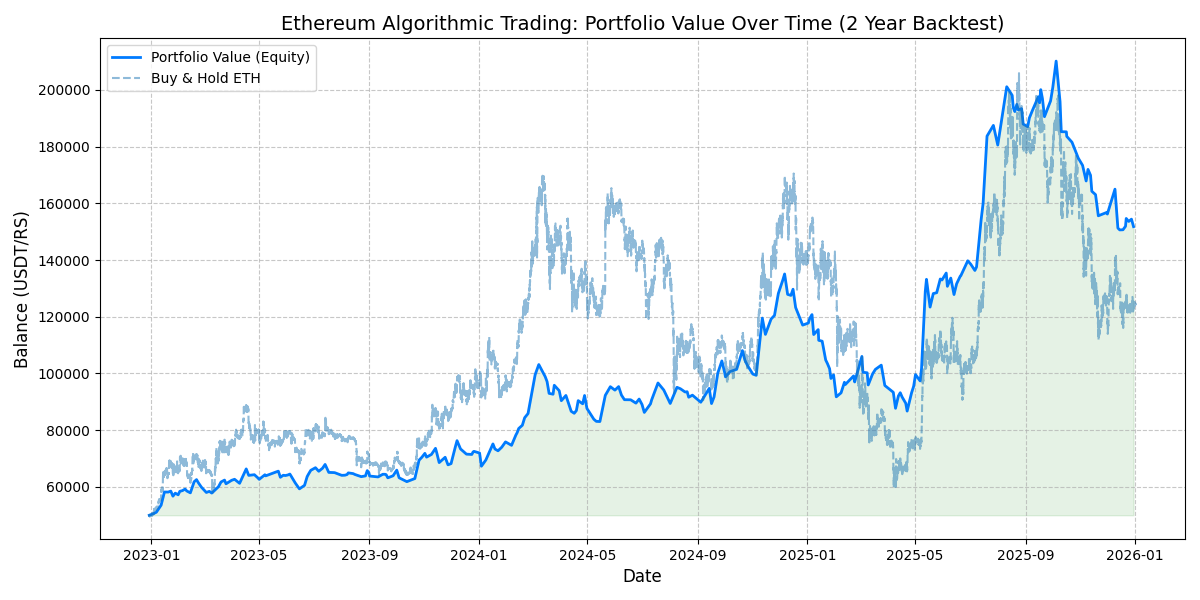
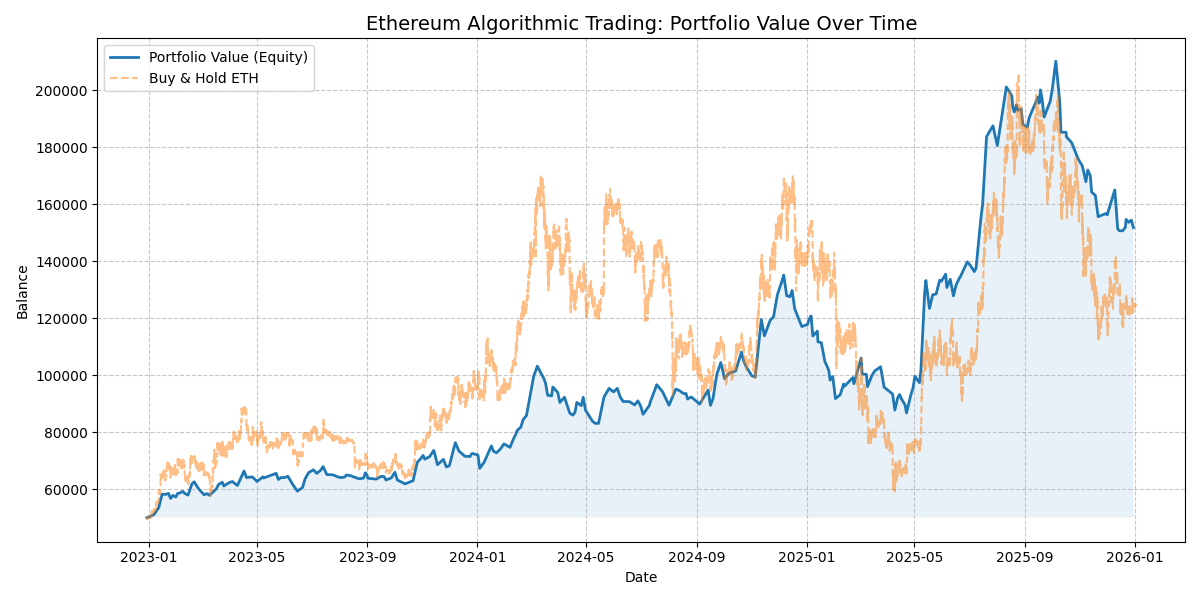
Added final cleaned code

diff --git a/final.py b/final.py
@@ -1,0 +1,279 @@
+import pandas as pd
+import numpy as np
+import os
+from engine_2 import EthereumTradingEngine
+import matplotlib.pyplot as plt
+
+# =========================
+# INDICATORS
+# =========================
+
+def calculate_ema(df, window):
+    return df['close'].ewm(span=window, adjust=False).mean()
+
+
+def calculate_rsi(df, window=14):
+    delta = df['close'].diff()
+    gain = delta.clip(lower=0).rolling(window).mean()
+    loss = (-delta.clip(upper=0)).rolling(window).mean()
+    rs = gain / loss
+    return 100 - (100 / (1 + rs))
+
+
+def calculate_atr(df, window=14):
+    tr = pd.concat([
+        df['high'] - df['low'],
+        (df['high'] - df['close'].shift()).abs(),
+        (df['low'] - df['close'].shift()).abs()
+    ], axis=1).max(axis=1)
+    return tr.rolling(window).mean()
+
+
+def calculate_macd(df, fast=12, slow=26, signal=9):
+    exp1 = df['close'].ewm(span=fast, adjust=False).mean()
+    exp2 = df['close'].ewm(span=slow, adjust=False).mean()
+    macd = exp1 - exp2
+    signal_line = macd.ewm(span=signal, adjust=False).mean()
+    return macd, signal_line
+
+
+def calculate_bollinger_bands(df, window=20, std_dev=2):
+    sma = df['close'].rolling(window).mean()
+    std = df['close'].rolling(window).std()
+    return sma + std_dev * std, sma, sma - std_dev * std
+
+
+def calculate_adx(df, window=14):
+    plus_dm = df['high'].diff().clip(lower=0)
+    minus_dm = (-df['low'].diff()).clip(lower=0)
+
+    tr = calculate_atr(df, window)
+
+    plus_di = 100 * (plus_dm.ewm(alpha=1/window).mean() / tr)
+    minus_di = 100 * (minus_dm.ewm(alpha=1/window).mean() / tr)
+
+    dx = (abs(plus_di - minus_di) / (plus_di + minus_di)) * 100
+    return dx.ewm(alpha=1/window).mean()
+
+# =========================
+# POSITION SIZING
+# =========================
+
+BASE_ALLOC = {
+    'trend_long': 1.00,
+    'trend_short': 0.70,
+    'side_long': 0.80,
+    'side_short': 0.50,
+}
+
+
+def get_position_size(capital, signal_type, atr, atr_mean):
+    base = BASE_ALLOC[signal_type]
+
+    if pd.notna(atr) and pd.notna(atr_mean) and atr_mean > 0:
+        scalar = np.clip(atr_mean / atr, 0.80, 1.00)
+    else:
+        scalar = 1.0
+
+    return capital * base * scalar
+
+# =========================
+# BACKTEST
+# =========================
+
+def run_backtest(csv_path, initial_funds=50000.0):
+
+    if os.path.exists('logs.csv'):
+        os.remove('logs.csv')
+
+    df = pd.read_csv(csv_path)
+    df['timestamp'] = pd.to_datetime(df['timestamp'])
+    df = df.sort_values('timestamp').reset_index(drop=True)
+
+    engine = EthereumTradingEngine(initial_balance=initial_funds, fee_rate=0.001)
+    
+    #df = df.head(17520).copy()
+    #df = df.tail(8855).copy()
+
+    # Indicators
+    df['ema_20'] = calculate_ema(df, 20)
+    df['ema_50'] = calculate_ema(df, 50)
+    df['ema_100'] = calculate_ema(df, 100)
+    df['macd'], df['macd_signal'] = calculate_macd(df)
+    df['adx'] = calculate_adx(df)
+    df['rsi'] = calculate_rsi(df)
+    df['bb_up'], df['bb_mid'], df['bb_low'] = calculate_bollinger_bands(df)
+    df['atr'] = calculate_atr(df)
+    df['atr_mean'] = df['atr'].rolling(20).mean()
+
+    portfolio_values = []
+
+    for i in range(len(df) - 1):
+        if i < 100:
+            portfolio_values.append(engine.balance)
+            continue
+
+        row = df.iloc[i]
+        next_row = df.iloc[i + 1]
+
+        if pd.isna(row['adx']):
+            portfolio_values.append(engine.balance)
+            continue
+
+        signal = 0
+        signal_type = None
+
+        # Trend
+        if row['adx'] > 30:
+            if row['macd'] > row['macd_signal'] and row['close'] > row['ema_20'] > row['ema_50'] > row['ema_100']:
+                signal, signal_type = 1, 'trend_long'
+            elif row['macd'] < row['macd_signal'] and row['close'] < row['ema_20'] < row['ema_50'] < row['ema_100']:
+                signal, signal_type = -1, 'trend_short'
+
+        # Range
+        elif row['adx'] < 25:
+            if row['rsi'] < 40 and row['close'] < row['bb_low']:
+                signal, signal_type = 1, 'side_long'
+            elif row['rsi'] > 65 and row['close'] > row['bb_up']:
+                signal, signal_type = -1, 'side_short'
+
+        # Hold logic
+        if engine.current_position is not None and signal == 0:
+            signal = 1 if engine.current_position['type'] == 'long' else -1
+
+        # Position sizing
+        if engine.current_position:
+            budget = engine.current_position['budget_allocated']
+        elif signal_type:
+            budget = get_position_size(engine.balance, signal_type, row['atr'], row['atr_mean'])
+        else:
+            budget = engine.balance
+
+        # Execute
+        if signal == 1:
+            engine.execute_trade(signal, budget, next_row['open'], next_row['timestamp'], 0.0)
+        elif signal == -1 and engine.current_position and engine.current_position['type'] == 'long':
+            engine._close_position(next_row['open'], next_row['timestamp'], 0)
+
+        # Portfolio value
+        val = engine.balance
+        if engine.current_position:
+            pos = engine.current_position
+            pnl = (next_row['open'] - pos['entry_price']) * pos['volume']
+            val += pos['budget_allocated'] + pnl
+
+        portfolio_values.append(val)
+
+    # Close final position
+    if engine.current_position:
+        last = df.iloc[-1]
+        engine.execute_trade(-1, 0, last['close'], last['timestamp'], 0.0)
+
+    # =========================
+    # PERFORMANCE METRICS
+    # =========================
+
+    history = engine.get_logs()
+    if history.empty:
+        print("No trades executed.")
+        return
+
+    history['balance_prev'] = history['final_balance'].shift(1).fillna(initial_funds)
+    history['pnl_val'] = history['final_balance'] - history['balance_prev']
+
+    pv = pd.Series(portfolio_values)
+    returns = pv.pct_change().dropna()
+
+    candles_per_year = 24 * 365
+
+    mean_ret = returns.mean()
+    std_ret = returns.std()
+    sharpe = (mean_ret * np.sqrt(candles_per_year)) / std_ret if std_ret != 0 else 0
+
+    downside = returns[returns < 0]
+    sortino = (mean_ret * np.sqrt(candles_per_year)) / downside.std() if downside.std() != 0 else 0
+
+    net_profit = engine.balance - initial_funds
+    total_trades = len(history)
+    win_rate = (len(history[history['pnl%'] > 0]) / total_trades) * 100
+
+    days = (df['timestamp'].iloc[-1] - df['timestamp'].iloc[0]).days
+    years = max(days / 365.25, 0.001)
+    cagr = ((engine.balance / initial_funds) ** (1 / years) - 1) * 100
+
+    equity = pd.Series([initial_funds] + history['final_balance'].tolist())
+    peaks = equity.cummax()
+    drawdown = (equity - peaks) / peaks
+    max_dd = drawdown.min() * 100
+
+    calmar = cagr / abs(max_dd) if max_dd != 0 else 0
+    bh = ((df['close'].iloc[-1] - df['close'].iloc[0]) / df['close'].iloc[0]) * 100
+
+    print("\n" + "="*50)
+    print(f"{'FINAL PERFORMANCE REPORT':^50}")
+    print("="*50)
+    print(f"Net Profit:      {net_profit:,.2f}")
+    print(f"Return:          {100*net_profit/initial_funds:.2f}%")
+    print(f"Trades:          {total_trades}")
+    print(f"Win Rate:        {win_rate:.2f}%")
+    print(f"Max Drawdown:    {max_dd:.2f}%")
+    print("-"*50)
+    print(f"CAGR:            {cagr:.2f}%")
+    print(f"Sharpe:          {sharpe:.2f}")
+    print(f"Sortino:         {sortino:.2f}")
+    print(f"Calmar:          {calmar:.2f}")
+    print("-"*50)
+    print(f"Buy & Hold:      {bh:.2f}%")
+    print("="*50)
+
+        # =========================
+    # PLOTTING
+    # =========================
+
+    times = [df['timestamp'].iloc[0]]
+    balances = [initial_funds]
+
+    if not history.empty:
+        times.extend(pd.to_datetime(history['exit_datetime']).tolist())
+        balances.extend(history['final_balance'].tolist())
+
+    plt.figure(figsize=(12, 6))
+
+    plt.plot(times, balances, label='Portfolio Value (Equity)', linewidth=2)
+
+    plt.plot(
+        df['timestamp'],
+        (df['close'] / df['close'].iloc[0]) * initial_funds,
+        label='Buy & Hold ETH',
+        linestyle='--',
+        alpha=0.5
+    )
+
+    plt.title('Ethereum Algorithmic Trading: Portfolio Value Over Time', fontsize=14)
+    plt.xlabel('Date')
+    plt.ylabel('Balance')
+
+    plt.grid(True, linestyle='--', alpha=0.7)
+    plt.legend()
+
+    plt.fill_between(
+        times, balances, initial_funds,
+        where=(pd.Series(balances) >= initial_funds),
+        interpolate=True,
+        alpha=0.1
+    )
+
+    plt.fill_between(
+        times, balances, initial_funds,
+        where=(pd.Series(balances) < initial_funds),
+        interpolate=True,
+        alpha=0.1
+    )
+
+    plt.tight_layout()
+    plt.savefig('equity_curve.png')
+    plt.show()
+
+
+if __name__ == "__main__":
+    run_backtest('ETH-USDT_1h.csv')
